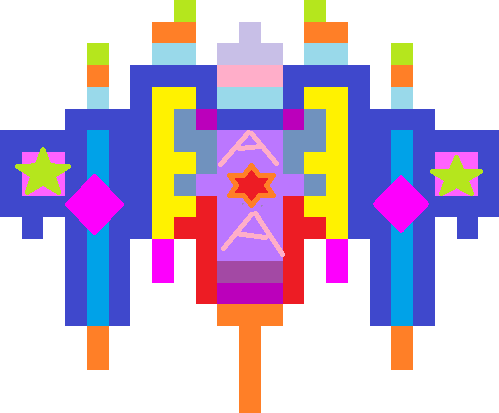
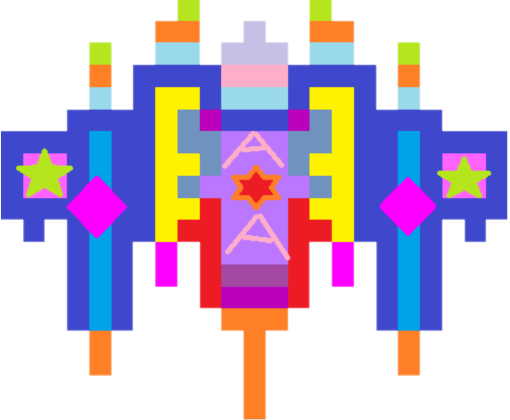
Removed the background of audrey's ship
Edited the space ship in paint 3d

diff --git a/Uncle_Brett/Pygame/TechWithTimPygameForBeginners/space_battle_main.py b/Uncle_Brett/Pygame/TechWithTimPygameForBeginners/space_battle_main.py
@@ -1,0 +1,177 @@
+# -*- coding: utf-8 -*-
+"""
+Created on Fri Apr 23 16:05:14 2021
+
+@author: brett
+"""
+import pygame
+import os
+pygame.font.init()
+pygame.mixer.init()
+
+WIDTH, HEIGHT = 900, 500
+WIN = pygame.display.set_mode((WIDTH, HEIGHT))
+pygame.display.set_caption("First Game!")
+
+WHITE = (255, 255, 255)
+BLACK = (0, 0, 0)
+RED = (255, 0, 0)
+YELLOW = (255, 255, 0)
+
+BORDER = pygame.Rect(WIDTH//2 - 5, 0, 10, HEIGHT)
+
+
+HEALTH_FONT = pygame.font.SysFont('comicsans', 40)
+WINNER_FONT = pygame.font.SysFont('comicsans', 100)
+
+FPS = 60
+VEL = 5
+MAX_BULLETS = 5
+BULLET_VEL = 10
+SPACESHIP_WIDTH, SPACESHIP_HEIGHT = 55, 40
+
+YELLOW_HIT = pygame.USEREVENT + 1
+RED_HIT = pygame.USEREVENT + 2
+
+YELLOW_SPACESHIP_IMAGE = pygame.image.load(
+    os.path.join('Assets', 'spaceship_audrey.png'))
+YELLOW_SPACESHIP = pygame.transform.rotate(pygame.transform.scale(
+    YELLOW_SPACESHIP_IMAGE, (SPACESHIP_WIDTH, SPACESHIP_HEIGHT)), 90)
+
+RED_SPACESHIP_IMAGE = pygame.image.load(
+    os.path.join('Assets', 'spaceship_andrew.png'))
+RED_SPACESHIP = pygame.transform.rotate(pygame.transform.scale(
+    RED_SPACESHIP_IMAGE, (SPACESHIP_WIDTH, SPACESHIP_HEIGHT)), 270)
+
+SPACE = pygame.transform.scale(pygame.image.load(
+    os.path.join('Assets', 'space.png')), (WIDTH, HEIGHT))
+
+def draw_window(red, yellow, red_bullets, yellow_bullets,
+                red_health, yellow_health):
+    WIN.blit(SPACE, (0,0))
+    pygame.draw.rect(WIN, BLACK, BORDER)
+    
+    red_health_text = HEALTH_FONT.render(
+        "Health: " + str(red_health), 1, WHITE)
+    yellow_health_text = HEALTH_FONT.render(
+        "Health: " + str(yellow_health), 1, WHITE)
+    WIN.blit(red_health_text, (WIDTH - red_health_text.get_width() - 10, 10))
+    WIN.blit(yellow_health_text, (10, 10))
+    
+    WIN.blit(YELLOW_SPACESHIP, (yellow.x, yellow.y))
+    WIN.blit(RED_SPACESHIP, (red.x, red.y))
+    
+    for bullet in red_bullets:
+        pygame.draw.rect(WIN, RED, bullet)
+        
+    for bullet in yellow_bullets:
+        pygame.draw.rect(WIN, YELLOW, bullet)
+    
+    pygame.display.update()
+
+def yellow_handle_movement(keys_pressed, yellow):
+    if keys_pressed[pygame.K_a] and yellow.x - VEL > 0: # LEFT
+        yellow.x -= VEL
+    if keys_pressed[pygame.K_d] and yellow.x + VEL + yellow.width < BORDER.x:  # RIGHT
+        yellow.x += VEL
+    if keys_pressed[pygame.K_w] and yellow.y - VEL > 0:  # UP
+        yellow.y -= VEL
+    if keys_pressed[pygame.K_s] and yellow.y + VEL + yellow.height < HEIGHT - 15:  # DOWN
+        yellow.y += VEL
+
+def red_handle_movement(keys_pressed, red):
+    if keys_pressed[pygame.K_LEFT] and red.x - VEL > BORDER.x + BORDER.width:  # LEFT
+        red.x -= VEL
+    if keys_pressed[pygame.K_RIGHT] and red.x + VEL + red.width < WIDTH:  # RIGHT
+        red.x += VEL
+    if keys_pressed[pygame.K_UP] and red.y - VEL > 0:  # UP
+        red.y -= VEL
+    if keys_pressed[pygame.K_DOWN] and red.y + VEL + red.height < HEIGHT - 15:  # DOWN
+        red.y += VEL
+
+def handle_bullets(yellow_bullets, red_bullets, red, yellow):
+    for bullet in red_bullets:
+        bullet.x -= BULLET_VEL
+        if yellow.colliderect(bullet):
+            pygame.event.post(pygame.event.Event(YELLOW_HIT))
+            red_bullets.remove(bullet)
+        elif bullet.x < 0:
+            red_bullets.remove(bullet)
+    
+    for bullet in yellow_bullets:
+        bullet.x += BULLET_VEL
+        if red.colliderect(bullet):
+            pygame.event.post(pygame.event.Event(RED_HIT))
+            yellow_bullets.remove(bullet)
+        elif bullet.x > WIDTH:
+            yellow_bullets.remove(bullet)
+
+def draw_winner(text):
+    draw_text = WINNER_FONT.render(text, 1, WHITE)
+    WIN.blit(draw_text, (WIDTH/2 - draw_text.get_width() /
+                         2, HEIGHT/2 - draw_text.get_height()/2))
+    pygame.display.update()
+    pygame.time.delay(5000)
+
+def main():
+    red = pygame.Rect(700, 300, SPACESHIP_WIDTH, SPACESHIP_HEIGHT)
+    yellow = pygame.Rect(100, 300, SPACESHIP_WIDTH, SPACESHIP_HEIGHT)
+    
+    red_bullets = []
+    yellow_bullets = []
+    
+    red_health = 10
+    yellow_health = 10
+    
+    clock = pygame.time.Clock()
+    run = True
+    while run:
+        clock.tick(FPS)
+        for event in pygame.event.get():
+            if event.type == pygame.QUIT:
+                run = False
+                pygame.quit()
+            
+            if event.type == pygame.KEYDOWN:
+                if event.key == pygame.K_LCTRL and len(yellow_bullets) < MAX_BULLETS:
+                    bullet = pygame.Rect(
+                        yellow.x + yellow.width, yellow.y + yellow.height//2 - 2, 10, 5)
+                    yellow_bullets.append(bullet)
+                    #BULLET_FIRE_SOUND.play()
+
+                if event.key == pygame.K_RCTRL and len(red_bullets) < MAX_BULLETS:
+                    bullet = pygame.Rect(
+                        red.x, red.y + red.height//2 - 2, 10, 5)
+                    red_bullets.append(bullet)
+                    #BULLET_FIRE_SOUND.play()
+            
+            if event.type == RED_HIT:
+                red_health -= 1
+                
+            if event.type == YELLOW_HIT:
+                yellow_health -= 1
+            
+        winner_message = ""
+        if (red_health <= 0):
+            winner_message = "Audrey wins!"            
+            
+        if (yellow_health <= 0):
+            winner_message = "Andrew wins!"            
+            
+        if (len(winner_message)>0):
+            draw_winner(winner_message)
+            break
+            
+            
+        keys_pressed = pygame.key.get_pressed()
+        yellow_handle_movement(keys_pressed, yellow)
+        red_handle_movement(keys_pressed, red)
+        
+        handle_bullets(yellow_bullets, red_bullets, red, yellow)
+        draw_window(red, yellow, red_bullets, yellow_bullets, 
+                    red_health, yellow_health)
+    
+    main()
+
+if __name__ == "__main__":
+    main()

diff --git a/Uncle_Brett/Pygame/TechWithTimPygameForBeginners/space_ship.py b/Uncle_Brett/Pygame/TechWithTimPygameForBeginners/space_ship.py
@@ -1,0 +1,151 @@
+# -*- coding: utf-8 -*-
+"""
+Created on Fri Apr 23 16:05:14 2021
+
+@author: brett
+"""
+import pygame
+import space_battle_constants as sb_constants
+
+class space_ship:
+    def __init__(self, ship_image_file, start_x, start_y):
+        self._ship_image_file = ship_image_file
+        raw_image = pygame.image.load(self.space_ship_image)
+        self._image = pygame.transform.rotate(pygame.transform.scale(
+            raw_image, (sb_constants.SPACESHIP_WIDTH, sb_constants.SPACESHIP_HEIGHT)), 90)
+        self.x = start_x
+        self.y = start_y
+    
+    def draw(self, window):
+        window.blit(self._image, self.x, self.y)
+
+
+def draw_window(red, yellow, red_bullets, yellow_bullets,
+                red_health, yellow_health):
+    WIN.blit(SPACE, (0,0))
+    pygame.draw.rect(WIN, BLACK, BORDER)
+    
+    red_health_text = HEALTH_FONT.render(
+        "Health: " + str(red_health), 1, WHITE)
+    yellow_health_text = HEALTH_FONT.render(
+        "Health: " + str(yellow_health), 1, WHITE)
+    WIN.blit(red_health_text, (WIDTH - red_health_text.get_width() - 10, 10))
+    WIN.blit(yellow_health_text, (10, 10))
+    
+    WIN.blit(YELLOW_SPACESHIP, (yellow.x, yellow.y))
+    WIN.blit(RED_SPACESHIP, (red.x, red.y))
+    
+    for bullet in red_bullets:
+        pygame.draw.rect(WIN, RED, bullet)
+        
+    for bullet in yellow_bullets:
+        pygame.draw.rect(WIN, YELLOW, bullet)
+    
+    pygame.display.update()
+
+def yellow_handle_movement(keys_pressed, yellow):
+    if keys_pressed[pygame.K_a] and yellow.x - VEL > 0: # LEFT
+        yellow.x -= VEL
+    if keys_pressed[pygame.K_d] and yellow.x + VEL + yellow.width < BORDER.x:  # RIGHT
+        yellow.x += VEL
+    if keys_pressed[pygame.K_w] and yellow.y - VEL > 0:  # UP
+        yellow.y -= VEL
+    if keys_pressed[pygame.K_s] and yellow.y + VEL + yellow.height < HEIGHT - 15:  # DOWN
+        yellow.y += VEL
+
+def red_handle_movement(keys_pressed, red):
+    if keys_pressed[pygame.K_LEFT] and red.x - VEL > BORDER.x + BORDER.width:  # LEFT
+        red.x -= VEL
+    if keys_pressed[pygame.K_RIGHT] and red.x + VEL + red.width < WIDTH:  # RIGHT
+        red.x += VEL
+    if keys_pressed[pygame.K_UP] and red.y - VEL > 0:  # UP
+        red.y -= VEL
+    if keys_pressed[pygame.K_DOWN] and red.y + VEL + red.height < HEIGHT - 15:  # DOWN
+        red.y += VEL
+
+def handle_bullets(yellow_bullets, red_bullets, red, yellow):
+    for bullet in red_bullets:
+        bullet.x -= BULLET_VEL
+        if yellow.colliderect(bullet):
+            pygame.event.post(pygame.event.Event(YELLOW_HIT))
+            red_bullets.remove(bullet)
+        elif bullet.x < 0:
+            red_bullets.remove(bullet)
+    
+    for bullet in yellow_bullets:
+        bullet.x += BULLET_VEL
+        if red.colliderect(bullet):
+            pygame.event.post(pygame.event.Event(RED_HIT))
+            yellow_bullets.remove(bullet)
+        elif bullet.x > WIDTH:
+            yellow_bullets.remove(bullet)
+
+def draw_winner(text):
+    draw_text = WINNER_FONT.render(text, 1, WHITE)
+    WIN.blit(draw_text, (WIDTH/2 - draw_text.get_width() /
+                         2, HEIGHT/2 - draw_text.get_height()/2))
+    pygame.display.update()
+    pygame.time.delay(5000)
+
+def main():
+    red = pygame.Rect(700, 300, SPACESHIP_WIDTH, SPACESHIP_HEIGHT)
+    yellow = pygame.Rect(100, 300, SPACESHIP_WIDTH, SPACESHIP_HEIGHT)
+    
+    red_bullets = []
+    yellow_bullets = []
+    
+    red_health = 10
+    yellow_health = 10
+    
+    clock = pygame.time.Clock()
+    run = True
+    while run:
+        clock.tick(FPS)
+        for event in pygame.event.get():
+            if event.type == pygame.QUIT:
+                run = False
+                pygame.quit()
+            
+            if event.type == pygame.KEYDOWN:
+                if event.key == pygame.K_LCTRL and len(yellow_bullets) < MAX_BULLETS:
+                    bullet = pygame.Rect(
+                        yellow.x + yellow.width, yellow.y + yellow.height//2 - 2, 10, 5)
+                    yellow_bullets.append(bullet)
+                    #BULLET_FIRE_SOUND.play()
+
+                if event.key == pygame.K_RCTRL and len(red_bullets) < MAX_BULLETS:
+                    bullet = pygame.Rect(
+                        red.x, red.y + red.height//2 - 2, 10, 5)
+                    red_bullets.append(bullet)
+                    #BULLET_FIRE_SOUND.play()
+            
+            if event.type == RED_HIT:
+                red_health -= 1
+                
+            if event.type == YELLOW_HIT:
+                yellow_health -= 1
+            
+        winner_message = ""
+        if (red_health <= 0):
+            winner_message = "Yellow wins!"            
+            
+        if (yellow_health <= 0):
+            winner_message = "Red wins!"            
+            
+        if (len(winner_message)>0):
+            draw_winner(winner_message)
+            break
+            
+            
+        keys_pressed = pygame.key.get_pressed()
+        yellow_handle_movement(keys_pressed, yellow)
+        red_handle_movement(keys_pressed, red)
+        
+        handle_bullets(yellow_bullets, red_bullets, red, yellow)
+        draw_window(red, yellow, red_bullets, yellow_bullets, 
+                    red_health, yellow_health)
+    
+    main()
+
+if __name__ == "__main__":
+    main()

diff --git a/Uncle_Brett/Pygame/TechWithTimPygameForBeginners/space_battle_constants.py b/Uncle_Brett/Pygame/TechWithTimPygameForBeginners/space_battle_constants.py
@@ -1,0 +1,19 @@
+# -*- coding: utf-8 -*-
+"""
+Created on Fri Apr 23 16:05:14 2021
+
+@author: brett
+"""
+
+WIDTH, HEIGHT = 900, 500
+WHITE = (255, 255, 255)
+BLACK = (0, 0, 0)
+RED = (255, 0, 0)
+YELLOW = (255, 255, 0)
+
+FPS = 60
+VEL = 5
+MAX_BULLETS = 5
+BULLET_VEL = 10
+SPACESHIP_WIDTH, SPACESHIP_HEIGHT = 55, 40
+
